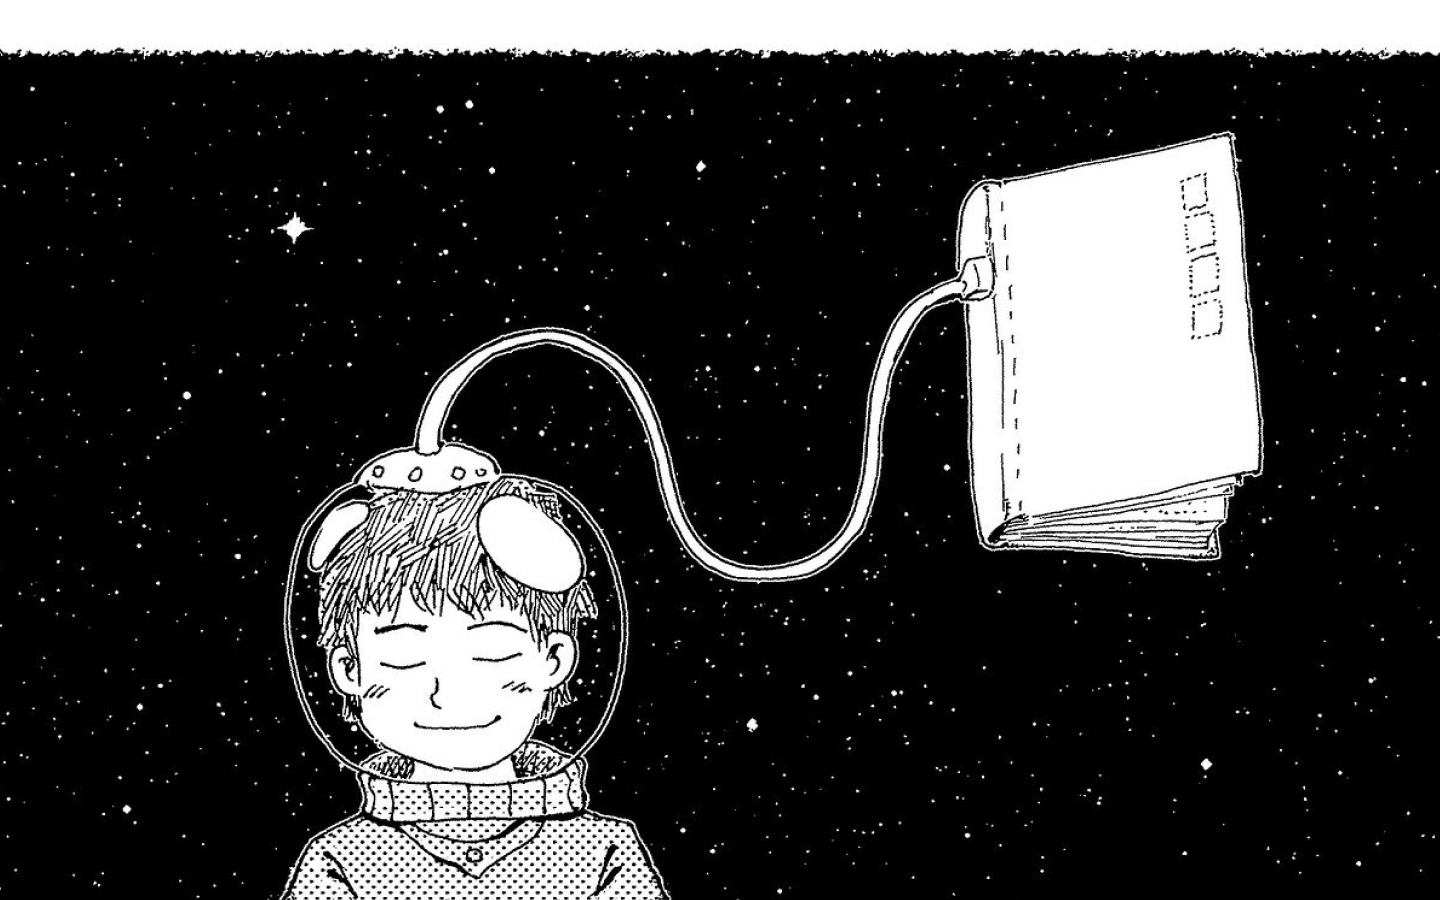
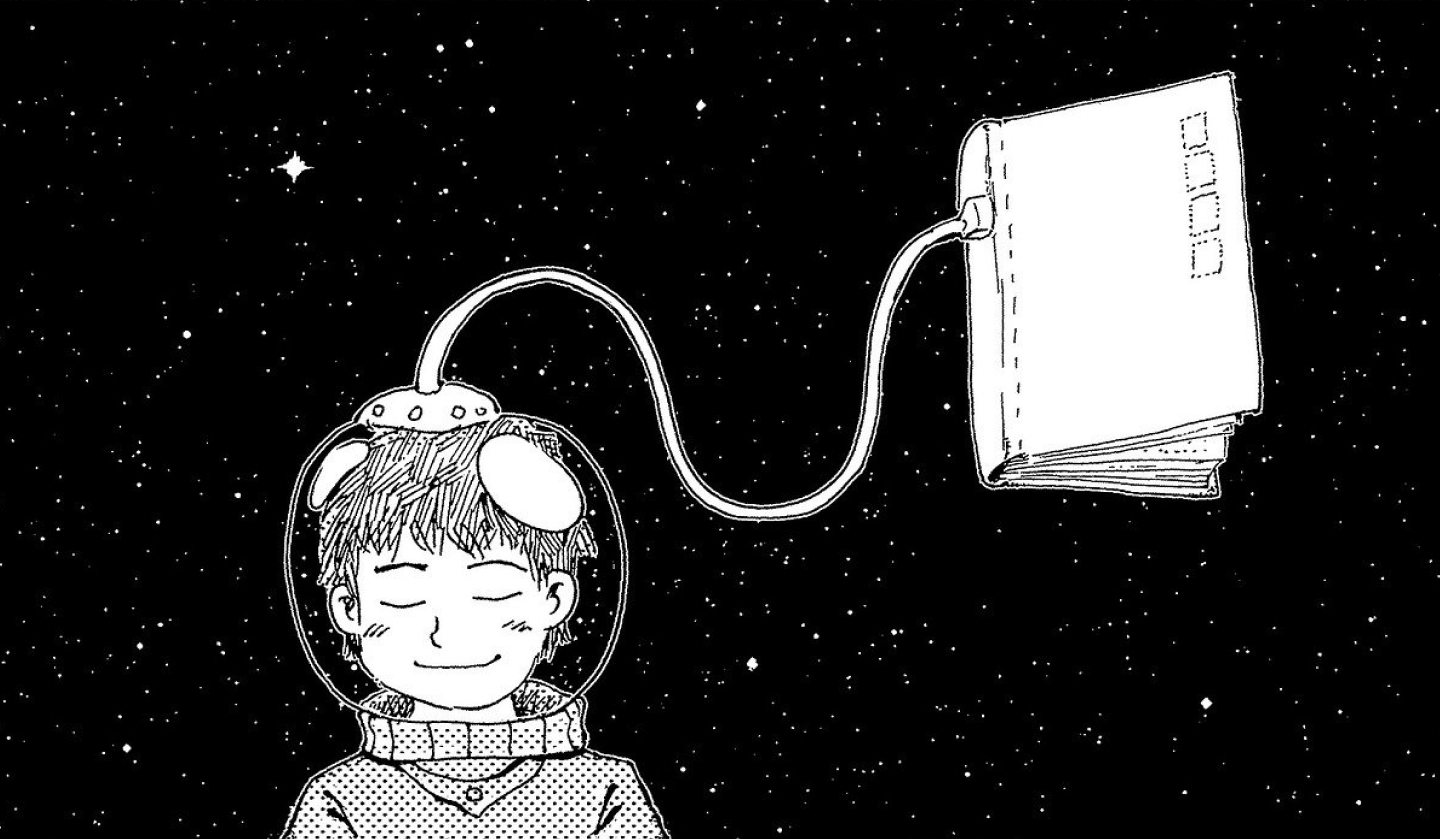
cropped images and correcting responsiveness error

diff --git a/style.css b/style.css
@@ -15,7 +15,7 @@
   padding: 0;
 }
 html, body {
-    height: auto;
+   height:100%;
     margin: 0%;
     box-sizing: border-box;
     overflow-x: hidden;
@@ -187,7 +187,9 @@ li >a:hover{
 }
 
 @media (max-width:400px){
-
+    li>a{
+        font-size: 1.1rem;
+    }
     .image {
         height:65vh;
         background:black ;

diff --git a/index.html b/index.html
@@ -3,7 +3,7 @@
 
 <head>
     <meta charset="UTF-8">
-    <meta name="viewport" content="width=device-width, initial-scale=1.0">
+    <meta name="viewport" content="width=device-width, initial-scale=1">
     <title>PROJECTS</title>
     <link rel="stylesheet" href="style.css">
 
